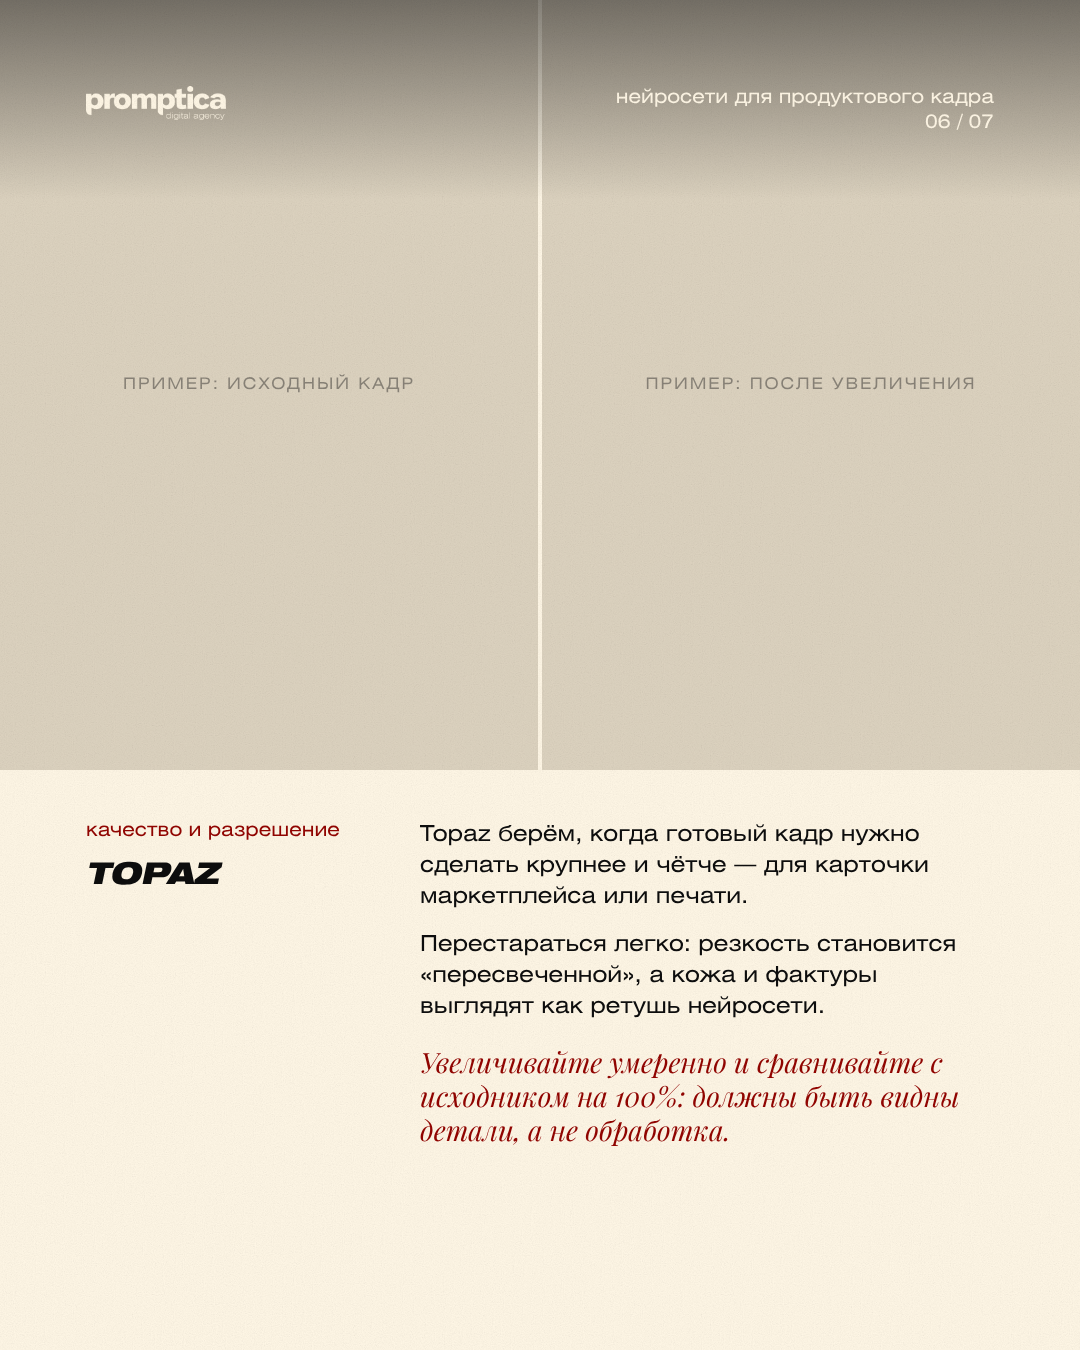
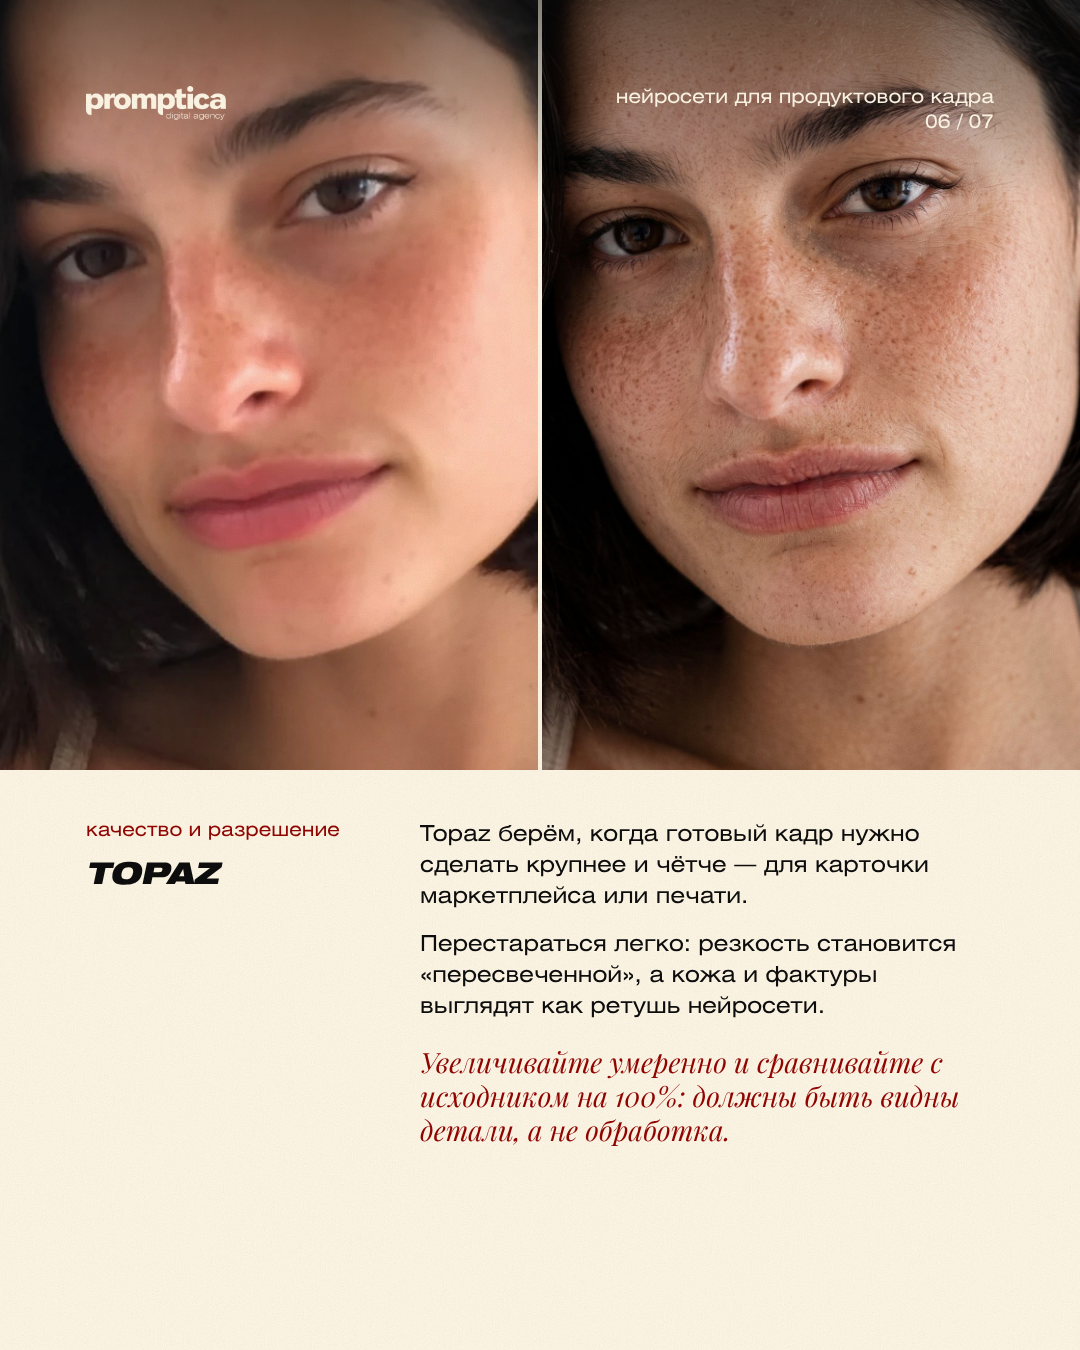
«Нейросети для продуктового кадра»: слайд 6 (Topaz), «до» подогнано под кадрирование «после»
Claude-Session: https://claude.ai/code/session_01V1NUh11xrVMcB1cs4GV2qz

diff --git a/carousels/promptica-product-shot/06.html b/carousels/promptica-product-shot/06.html
@@ -7,7 +7,7 @@
 </head>
 <body>
   <div class="slide ">
-    <div class="photos top"><div class="ph"><div class="hint">пример: исходный кадр</div><img src="img/06-a.jpg" alt="" onerror="this.remove()"></div><div class="ph"><div class="hint">пример: после увеличения</div><img src="img/06-b.jpg" alt="" onerror="this.remove()"></div></div>
+    <div class="photos top"><div class="ph"><div class="hint">пример: исходный кадр</div><img src="img/06-a.jpg" style="object-position:50% 28%" alt="" onerror="this.remove()"></div><div class="ph"><div class="hint">пример: после увеличения</div><img src="img/06-b.jpg" style="object-position:50% 28%" alt="" onerror="this.remove()"></div></div>
     <div class="tool" style="top:820px"><div class="n">качество и разрешение</div><h2>Topaz</h2></div>
     <div class="txt" style="top:820px"><p>Topaz берём, когда готовый кадр нужно сделать крупнее и чётче — для карточки маркетплейса или печати.</p><p>Перестараться легко: резкость становится «пересвеченной», а кожа и фактуры выглядят как ретушь нейросети.</p><div class="tip">Увеличивайте умеренно и сравнивайте с исходником на 100%: должны быть видны детали, а не обработка.</div></div>
     <div class="topscrim"></div>
